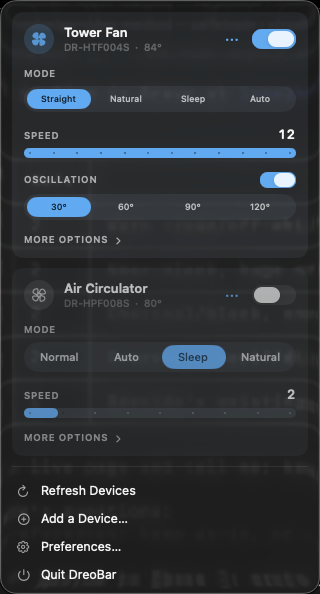
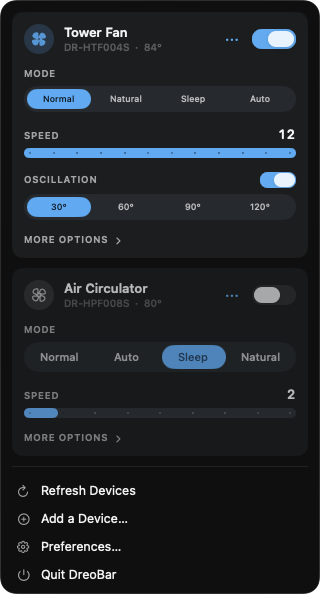
fix: resolve device labels through the vendor's own string table
Older devices return raw localisation keys in their schema, and splitting
those on underscores only half works. `device_control_panelsound` has no
separator between the words, so it rendered as "Panelsound", and
`device_fans_mode_straight` read as "Straight" where the Dreo app says
"Normal".

Labels.json is that string table, cut to the 525 keys device schemas use,
so wording now matches the product. Unknown keys still fall back to tidying
the key itself.

Screenshots retaken capturing the window rather than the screen region, so
the desktop no longer shows through the translucent popover.

diff --git a/DreoBar/Services/DeviceLabels.swift b/DreoBar/Services/DeviceLabels.swift
@@ -1,0 +1,36 @@
+import Foundation
+import os
+
+/// English text for the localisation keys the Dreo API sends instead of
+/// readable labels.
+///
+/// Older devices return raw keys in their `controlsConf`, so a control comes
+/// across as `device_control_panelsound` rather than "Panel Sound". Splitting
+/// those on underscores gets close but not there: that key has no separator
+/// between the two words, so it renders as "Panelsound", and
+/// `device_fans_mode_straight` reads as "Straight" when the official app calls
+/// it "Normal".
+///
+/// `Labels.json` is the vendor app's own English string table, cut down to the
+/// keys that appear in device schemas, so labels match what the Dreo app shows.
+enum DeviceLabels {
+    private static let logger = Logger(subsystem: "com.dreobar", category: "DeviceLabels")
+
+    private static let table: [String: String] = {
+        guard let url = Bundle.main.url(forResource: "Labels", withExtension: "json"),
+              let data = try? Data(contentsOf: url),
+              let decoded = try? JSONDecoder().decode([String: String].self, from: data) else {
+            logger.warning("Labels.json missing or unreadable")
+            return [:]
+        }
+        return decoded
+    }()
+
+    /// The English label for a key, or nil when this app has no entry, in
+    /// which case the caller falls back to tidying the key itself.
+    static func text(forKey key: String) -> String? {
+        table[key]
+    }
+
+    static var count: Int { table.count }
+}

diff --git a/DreoBarTests/DeviceLabelsTests.swift b/DreoBarTests/DeviceLabelsTests.swift
@@ -1,0 +1,31 @@
+import XCTest
+@testable import DreoBar
+
+final class DeviceLabelsTests: XCTestCase {
+    func test_table_loadsFromBundle() {
+        XCTAssertGreaterThan(DeviceLabels.count, 200)
+    }
+
+    func test_keysWithoutWordSeparatorsResolveProperly() {
+        // Splitting on underscores turns these into "Panelsound" and
+        // "Lightdetection", which is what the UI used to show.
+        XCTAssertEqual("device_control_panelsound".dreoTitleCased, "Panel Sound")
+        XCTAssertEqual("device_control_lightdetection".dreoTitleCased, "Adaptive Display")
+    }
+
+    func test_labelsMatchTheWordingTheDreoAppUses() {
+        // Tidying the key alone yields "Straight"; the product calls it Normal.
+        XCTAssertEqual("device_fans_mode_straight".dreoTitleCased, "Normal")
+        XCTAssertEqual("device_control_childlock".dreoTitleCased, "Child Lock")
+    }
+
+    func test_alreadyEnglishTextIsLeftAlone() {
+        // The bundled templates ship resolved English, which must survive.
+        XCTAssertEqual("Panel Sound".dreoTitleCased, "Panel Sound")
+        XCTAssertEqual("30°".dreoTitleCased, "30°")
+    }
+
+    func test_unknownKeyFallsBackToTidyingIt() {
+        XCTAssertEqual("device_control_madeup_thing".dreoTitleCased, "Madeup Thing")
+    }
+}

diff --git a/DreoBar/Views/MenuBar/DeviceControlView.swift b/DreoBar/Views/MenuBar/DeviceControlView.swift
@@ -289,8 +289,11 @@ struct DeviceControlView: View {
 extension String {
     /// Schemas from the server carry raw localisation keys such as
     /// `device_control_mode_sleep`, while the bundled templates already hold
-    /// English. This tidies the former and leaves the latter untouched.
+    /// English. Keys are looked up in the vendor's own string table first, so
+    /// labels read the way the Dreo app words them, and anything unknown falls
+    /// back to tidying the key itself.
     var dreoTitleCased: String {
+        if let label = DeviceLabels.text(forKey: self) { return label }
         guard contains("_") else { return self }
         var words = split(separator: "_").map(String.init)
             .filter { !["device", "control", "fans", "base"].contains($0.lowercased()) }
